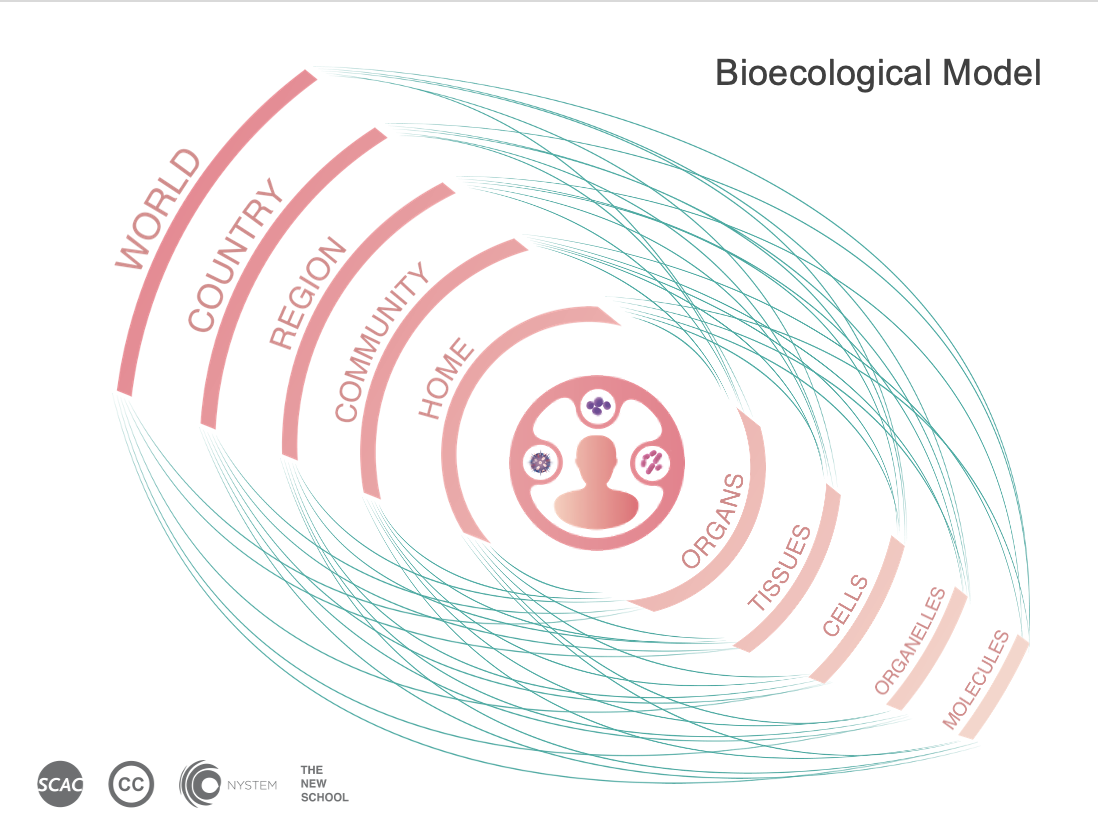
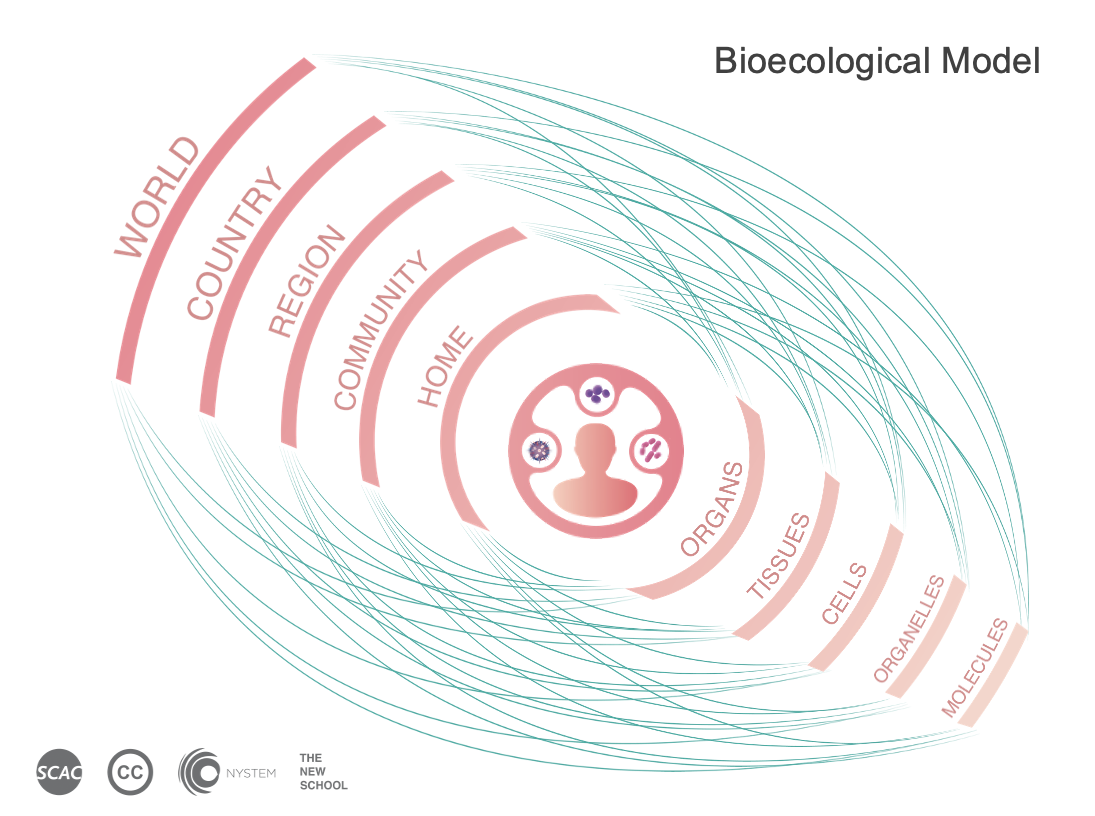
[PUBLISHER] Merge #2
* PUSH NOTE : I. How Have Human Tissues and Cells Been Used for Biomedical Research?.md

* PUSH ATTACHMENT : slide 3@2x.png

* PUSH ATTACHMENT : slide 4@2x.png

* PUSH ATTACHMENT : turn-right.png

diff --git a/docs/I. How Have Human Tissues and Cells Been Used for Biomedical Research?.md b/docs/I. How Have Human Tissues and Cells Been Used for Biomedical Research?.md
@@ -12,11 +12,11 @@ Combining biomedical and social approaches to health aids in our understanding o
 
 The field of epigenetics bridges the medical and the social models of health by clarifying the molecular mechanisms involved in responding to the macro-scale environment in which we live ([Bronfenbrenner, 1979](http://books.google.com/books/about/THE_ECOLOGY_OF_HUMAN_DEVELOPMENT.html?id=OCmbzWka6xUC); [Kubicek & Tolpa Studios, 2011](http://images.the-scientist.com/content/images/articles/58007/epigenetics_primer.jpg); <mark style="background: #FFF3A3A6;">Slide 3: Bioecological Model</mark>).
 
-![[slide 3@2x.png|slide 3@2x.png]]{ align = 'left' }
+![[slide 3@2x.png|slide 3@2x.png]]{ align = 'left', width = '30' }
 
 Epigenetics also investigates local micro- environmental effects on cells, tissues, and organs, to determine which environmental signals are responsible for influencing cells to divide, differentiate, move, or die ([Powell, 2005](http://www.nature.com/nature/journal/v435/n7040/full/435268a.html)) (<mark style="background: #FFF3A3A6;">Slide 4: Cell Signaling and Cell Fate</mark>).
 
-![[slide 4@2x.png|slide 4@2x.png]]{ align = 'right' }
+![[slide 4@2x.png|slide 4@2x.png]]{ align = 'right' } { width = '30' }
 
 <mark style="background: #FFF3A3A6;">Infographic: Kubicek, S. 2011. Infographic: Epigenetics - A Primer. The Scientist. [Link](http://www.the-scientist.com/?articles.view/articleNo/29546/title/Infographic--Epigenetics---A-Primer/)</mark> **! (unable to see infographic)**
 
